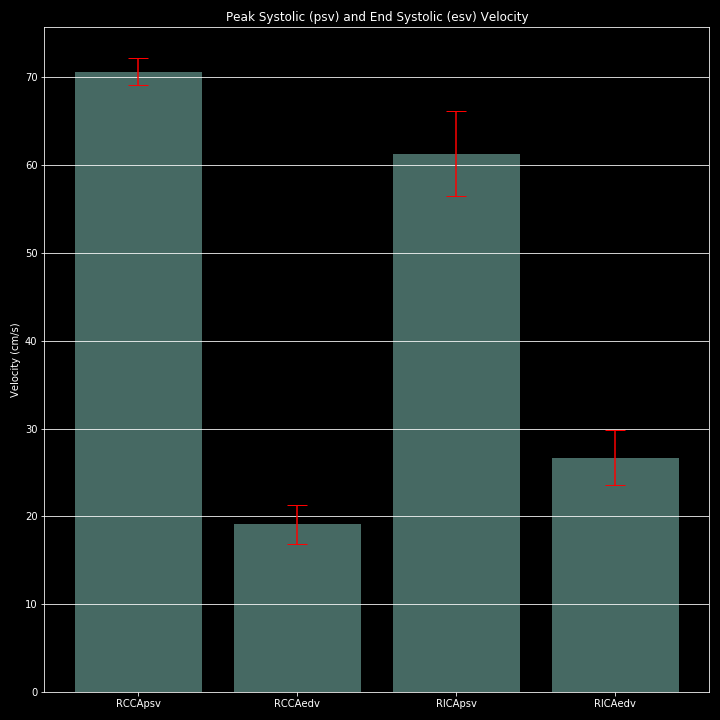
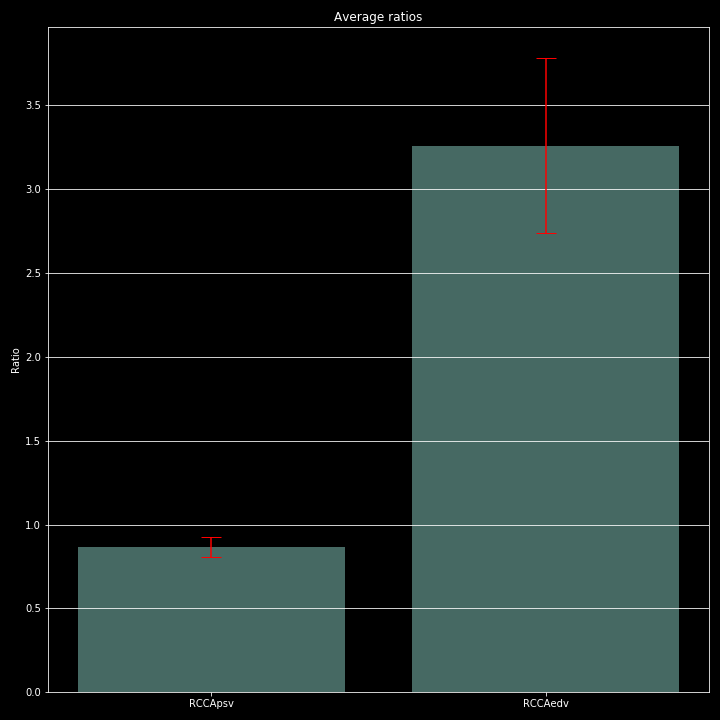
bar cahrt for mean ratios w/ stdev

diff --git a/data_manipulation.py b/data_manipulation.py
@@ -141,7 +141,7 @@ ax.yaxis.grid(True)
 
 # Save the figure and show
 plt.tight_layout()
-plt.savefig('plots/bar_plot_with_error_bars.png')
+plt.savefig('plots/bar_plot_mean_systollic velcities.png')
 plt.show()
 
 #%%
@@ -293,6 +293,38 @@ ax.set_title('ICApsv:CCApsv Ratio Vs ICApsv:CCAedv Ratio w/ corresponding "norma
 
 plt.legend(loc='best')
 plt.savefig('plots/comparison_ICApsv:CCApsv_and_ ICApsv_CCAedv_Ratios.png')
+plt.show()
+
+#%%
+# Calculate mean and std deviation for ratios
+
+mean_ICApsv_CCApsv_ratio = np.mean(ICApsv_CCApsv_ratios)
+mean_ICApsv_CCAedv_ratio = np.mean(ICApsv_CCAedv_ratios)
+
+stdev_ICApsv_CCApsv_ratio = np.std(ICApsv_CCApsv_ratios)
+stdev_ICApsv_CCAedv_ratio = np.std(ICApsv_CCAedv_ratios)
+
+#%%
+# Bar plot - Mean ratios w/ std deviation
+
+ratio = ['ICApsv_CCApsv_ratio', 'ICApsv_CCAedv_ratio']
+x_pos = np.arange(len(ratio))
+CTEs = [mean_ICApsv_CCApsv_ratio, mean_ICApsv_CCAedv_ratio]
+error = [stdev_ICApsv_CCApsv_ratio, stdev_ICApsv_CCAedv_ratio]
+
+#Building the Bar plot
+
+fig, ax = plt.subplots()
+ax.bar(x_pos, CTEs, yerr=error, align='center', alpha=0.5, color="cyan", ecolor='orangered', capsize=10)
+ax.set_ylabel('Ratio')
+ax.set_xticks(x_pos)
+ax.set_xticklabels(ratio)
+ax.set_title('Average ratios')
+ax.yaxis.grid(True)
+
+# Save the figure and show
+plt.tight_layout()
+plt.savefig('plots/bar_plot_average_ratios.png')
 plt.show()
 
 #%%
